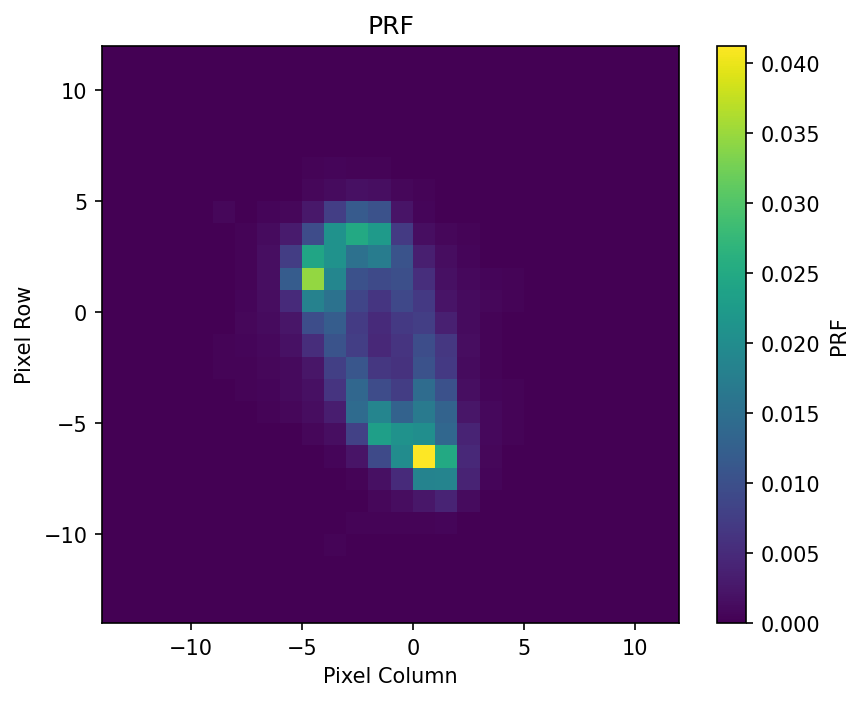
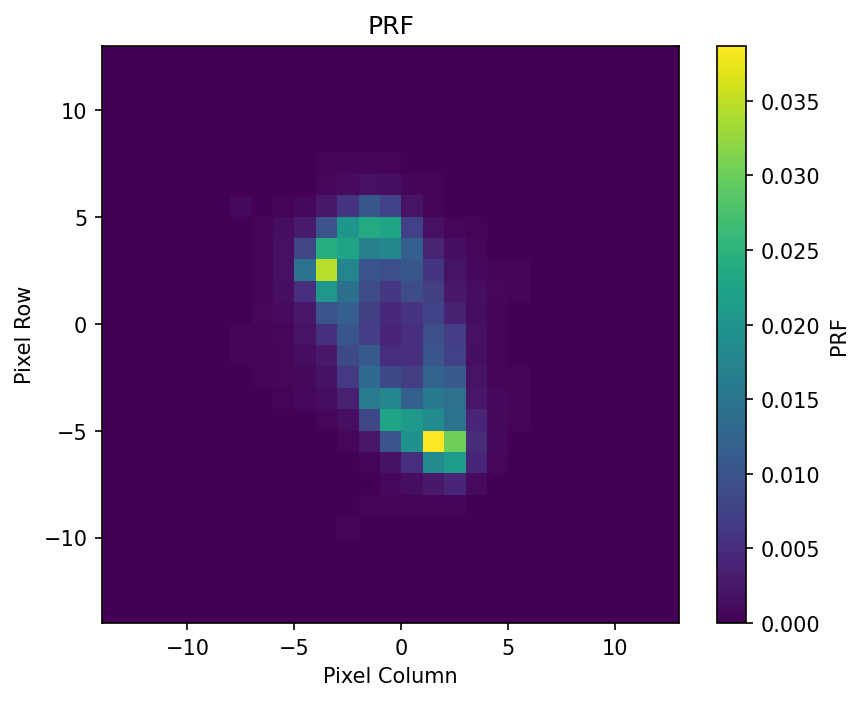
update for pandora-ref

diff --git a/src/pandoraaperture/scene.py b/src/pandoraaperture/scene.py
@@ -223,14 +223,20 @@ class SkyScene(FITSMixins):
     def _get_VDAflux(self, cat):
         """Gives the flux on the VDA. This can be updated with a reference product in the future...!"""
         # This is approximately the right flux for the VDA in electrons per second
-        return np.nan_to_num(
-            VISDAReference.magnitude_to_flux(cat.phot_bp_mean_mag.values)
+        return u.Quantity(
+            np.nan_to_num(
+                VISDAReference.magnitude_to_flux(cat.phot_bp_mean_mag.values)
+            ),
+            "count/s",
         )
 
     def _get_NIRDAflux(self, cat):
         """Gives the flux on the NIRDA. This can be updated with a reference product in the future...!"""
         # This is approximately the right flux for the NIRDA in electrons per second
-        return np.nan_to_num(VISDAReference.magnitude_to_flux(cat.j_m.values))
+        return u.Quantity(
+            np.nan_to_num(VISDAReference.magnitude_to_flux(cat.j_m.values)),
+            "count/s",
+        )
 
     @property
     def VDAflux(self):
